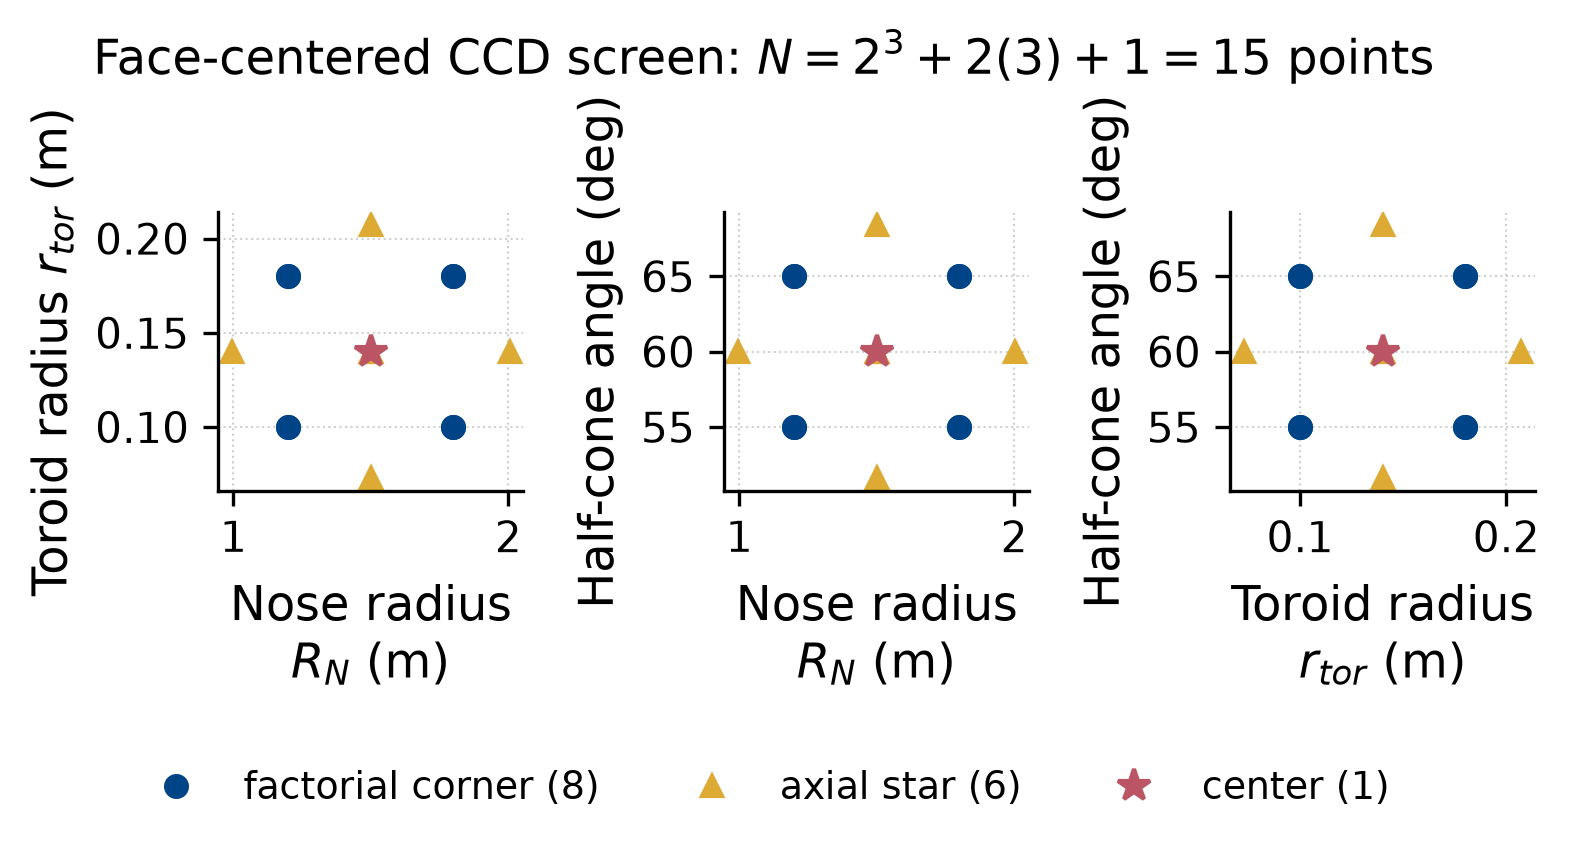
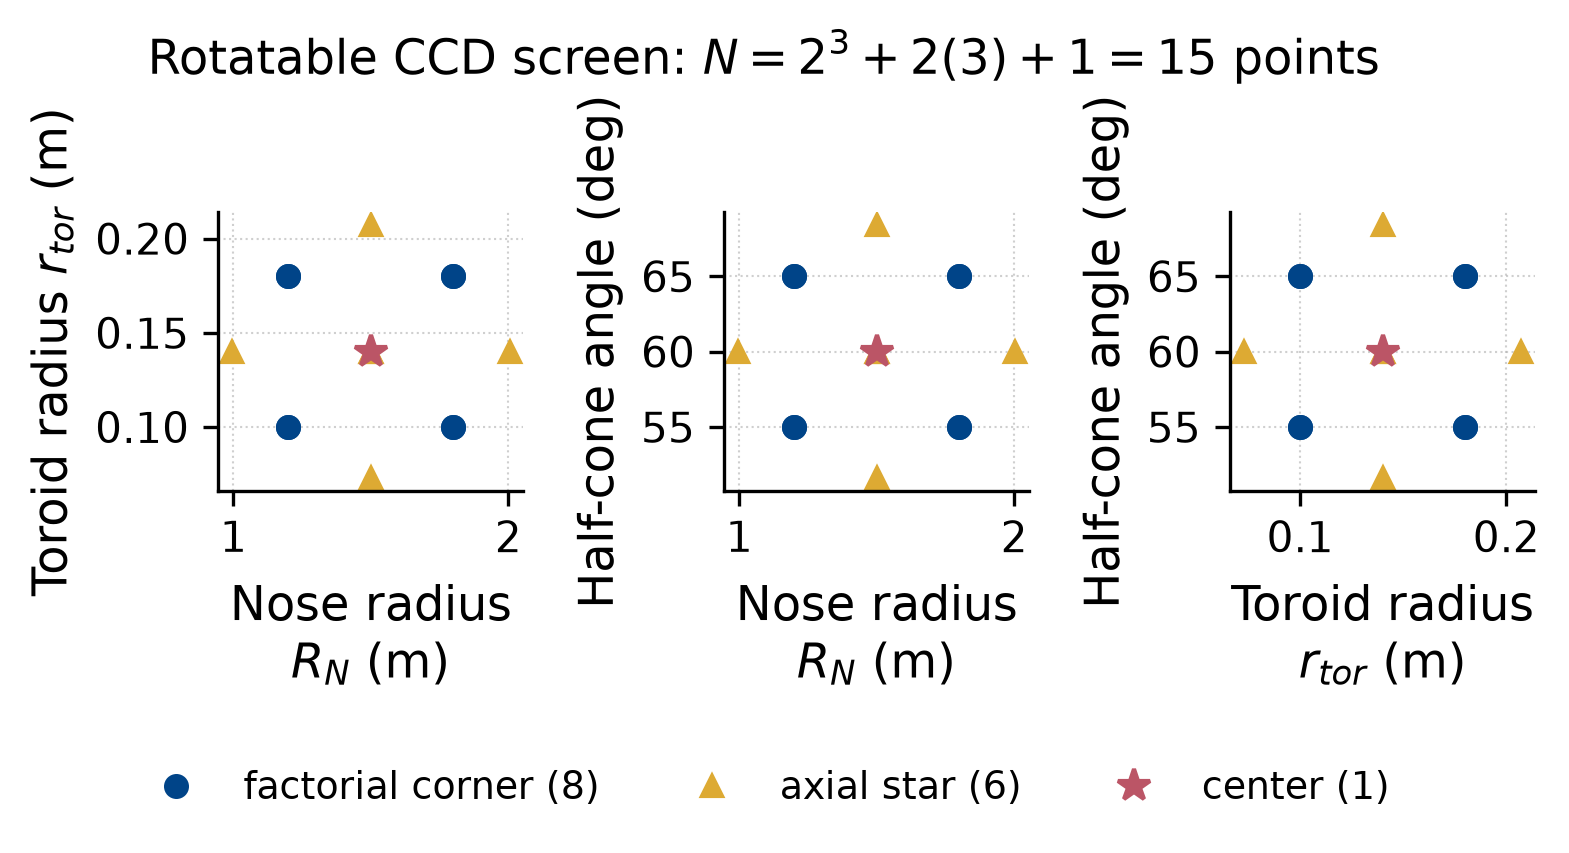
fix(thesis): correct residual Set-B CCD minimum (1.951->1.9959) and CCD figure title (Face-centered->Rotatable)
- ch4 Sec. Search Strategy: 'best J = 1.951' was a rounding residue of the
  discarded Set-B value 1.9505, contradicting the Set-A CCD minimum 1.9959
  stated later on the same page and in the figure caption; caught by
  image-specialist numeric cross-check of figure pixels vs captions.
- make_fignew.py fignew_ccd_screen suptitle: axial stars sit at coded
  alpha = 2^(3/4) = 1.682 (R_N 0.9955/2.0045 about center 1.5, half-width
  0.3), so the design is rotatable, not face-centered; title now states the
  true design, consistent with ch3 'rotatable CCD screen'.
- Re-rendered fignew_ccd_screen.png + full rebuild: VERDICT CLEAN, 166pp,
  audit 75/75, check_prose/structure/math_balance/scan_invariants all PASS,
  .tex '--' 0, Set-B residue sweep 0.

Changed region(s): [[0.0625, 0.0305, 0.9057, 0.0914]]

diff --git a/Lost+Found/ProgressReport/CurrentThesisFinalReport/chapter_04_results.tex b/Lost+Found/ProgressReport/CurrentThesisFinalReport/chapter_04_results.tex
@@ -315,7 +315,7 @@ The multi-objective cost function $J(\mathbf{x})$ of Sec.~\ref{sec:ga_opt} uses 
 \end{table}
 
 \subsection{Search Strategy and Convergence}
-A 15-point central composite design~\cite{Montgomery2017} screens first, best $J = 1.951$ at a factorial corner. A 20-point Latin Hypercube (LHS) \mbox{design~\cite{mckay1979lhs}} then populates the training set, followed by 50 Bayesian Optimization iterations~\cite{morris1992}, giving $n_{eval} = 70$ evaluations in the history. The surrogate is a Gaussian Process~\cite{rasmussen2003} with a Mat\'ern 5/2 kernel (Eq.~\ref{eq:matern52}) and Expected Improvement acquisition with $\xi = 0.01$ (Eq.~\ref{eq:ei}), per Sec.~\ref{sec:ga_opt}. The 15 CCD points are absent from the 70-entry history and do not seed the Bayesian stage; datasets are separate.
+A 15-point central composite design~\cite{Montgomery2017} screens first, best $J = 1.9959$ at a factorial corner. A 20-point Latin Hypercube (LHS) \mbox{design~\cite{mckay1979lhs}} then populates the training set, followed by 50 Bayesian Optimization iterations~\cite{morris1992}, giving $n_{eval} = 70$ evaluations in the history. The surrogate is a Gaussian Process~\cite{rasmussen2003} with a Mat\'ern 5/2 kernel (Eq.~\ref{eq:matern52}) and Expected Improvement acquisition with $\xi = 0.01$ (Eq.~\ref{eq:ei}), per Sec.~\ref{sec:ga_opt}. The 15 CCD points are absent from the 70-entry history and do not seed the Bayesian stage; datasets are separate.
 
 \begin{figure}[!htbp]
     \centering

diff --git a/Lost+Found/ProgressReport/CurrentThesisFinalReport/figures/make_fignew.py b/Lost+Found/ProgressReport/CurrentThesisFinalReport/figures/make_fignew.py
@@ -582,7 +582,10 @@ def fig_ccd_screen() -> None:
     # The exponent in 2^3 is a mathtext script, so this title carries the same
     # 0.7 shrink as the axis labels and must sit at SCRIPT_SAFE_PT, not at the
     # 10 pt it used to print (which rendered the exponent at 7 pt).
-    fig.suptitle("Face-centered CCD screen: $N = 2^3 + 2(3) + 1 = 15$ points",
+    # Axiom/design: axial stars sit at coded alpha = 2^(3/4) = 1.682 (R_N 0.9955/2.0045
+    # around center 1.5, half-width 0.3) -> this is a ROTATABLE CCD, not face-centered
+    # (alpha = 1 would put stars on the corners). Title must state the true design.
+    fig.suptitle("Rotatable CCD screen: $N = 2^3 + 2(3) + 1 = 15$ points",
                  fontsize=SCRIPT_SAFE_PT)
     # y is the suptitle's default 0.98; the earlier explicit y=1.03 pushed the
     # text outside the saved bounding box and clipped the top of the capitals.
